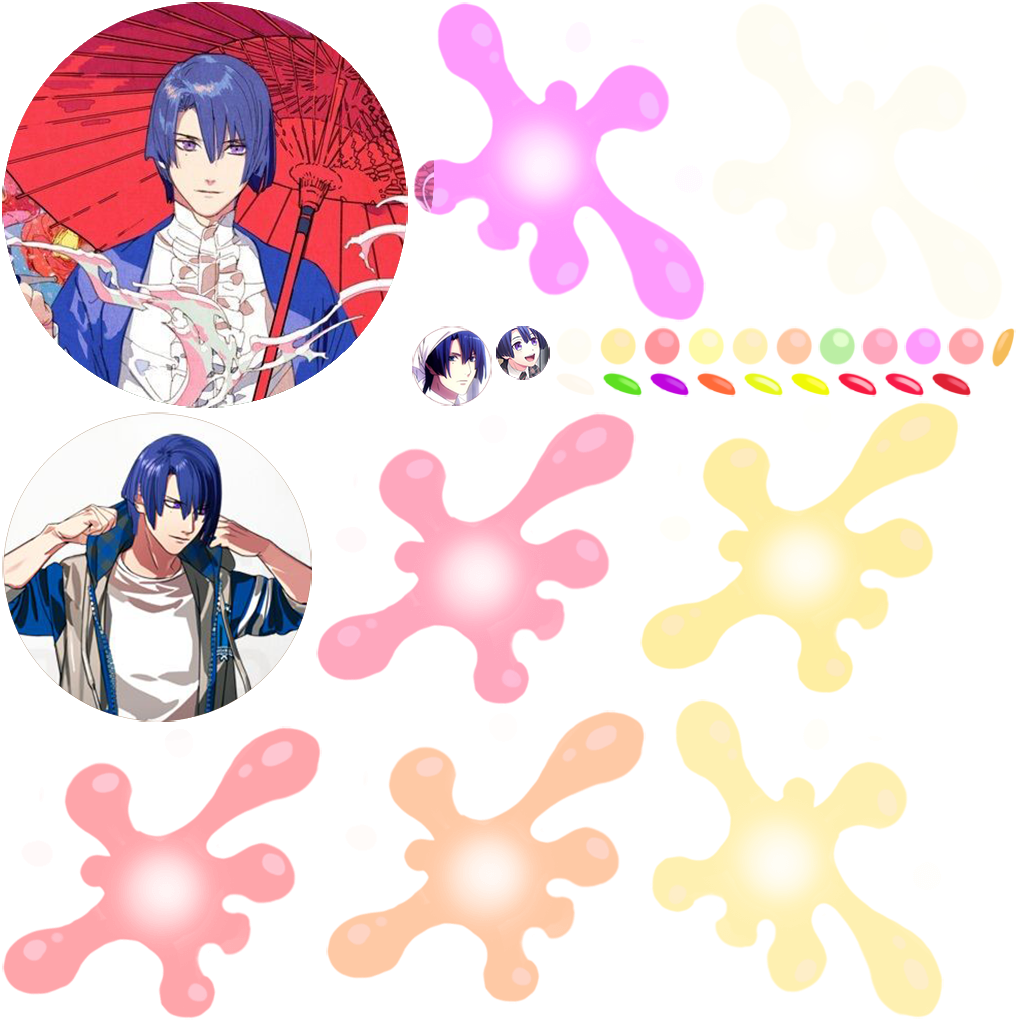
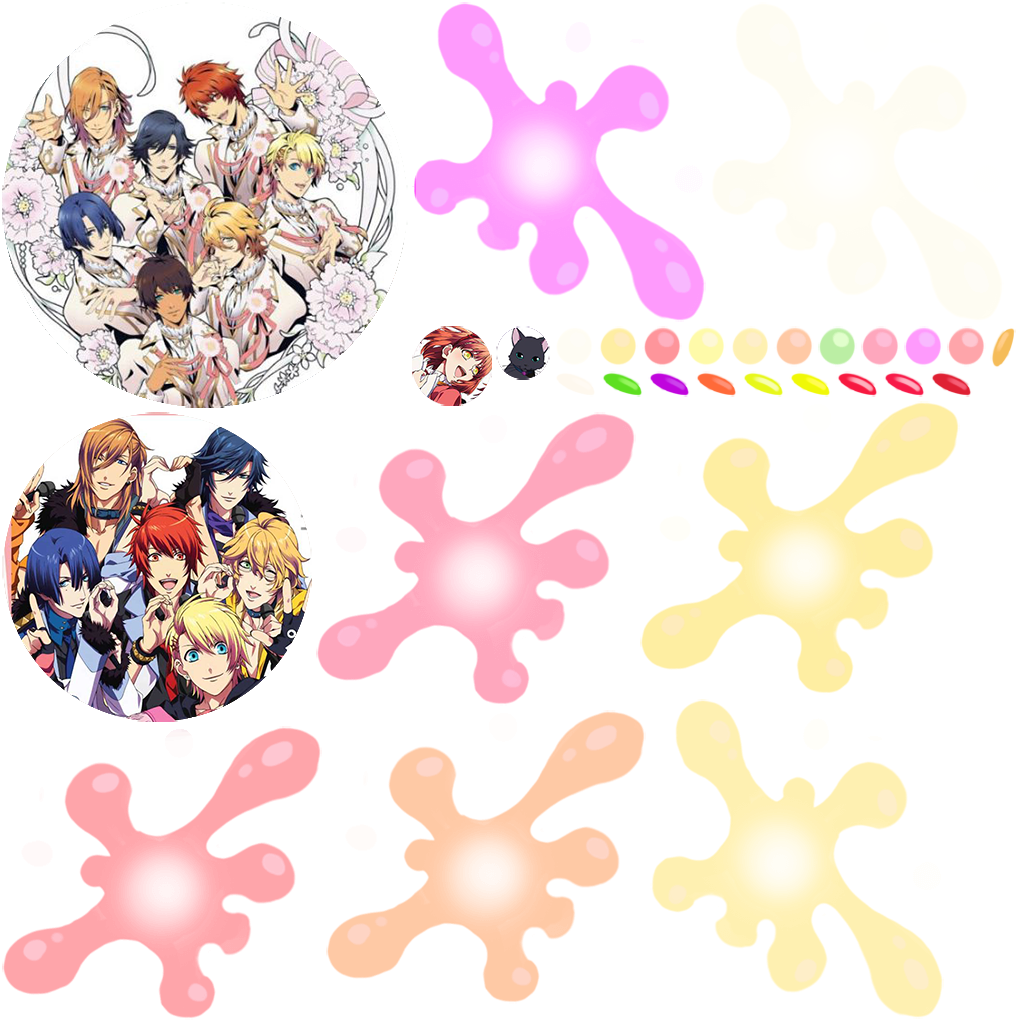
nitial commit

Changed region(s): [[0.0, 0.0, 0.4263, 0.728], [0.3959, 0.3033, 0.5481, 0.3943]]

diff --git a/index.html b/index.html
@@ -4,7 +4,7 @@
 <head>
     <meta charset="utf-8">
 
-    <title>合成圣川</title>
+    <title>合成ST☆RISH</title>
 
     <!--http://www.html5rocks.com/en/mobile/mobifying/-->
     <meta name="viewport" content="width=device-width,user-scalable=no,initial-scale=1, minimum-scale=1,maximum-scale=1" />
@@ -109,7 +109,7 @@
             //        console.log("window.navigator.language",window.navigator.language);
 
             if (window.navigator.language == "zh-CN" || window.navigator.language == "zh-cn") {
-                document.title = "合成圣川";
+                document.title = "合成ST☆RISH";
             } 
 
 
